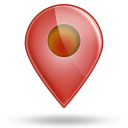
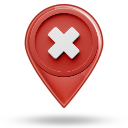
Failure pinpoint accessible for color blind users

Changed region(s): [[0.2188, 0.0625, 0.7812, 0.625]]

diff --git a/version.php b/version.php
@@ -26,8 +26,8 @@
 defined('MOODLE_INTERNAL') || die();
 
 $plugin->component = 'mod_treasurehunt';
-$plugin->version = 2022020401;
-$plugin->release = 'v1.5.1b';
+$plugin->version = 2023010500;
+$plugin->release = 'v1.5.2';
 $plugin->requires = 2015051100; // Moodle 2.9.
 $plugin->maturity = MATURITY_STABLE;
 $plugin->dependencies = array();
